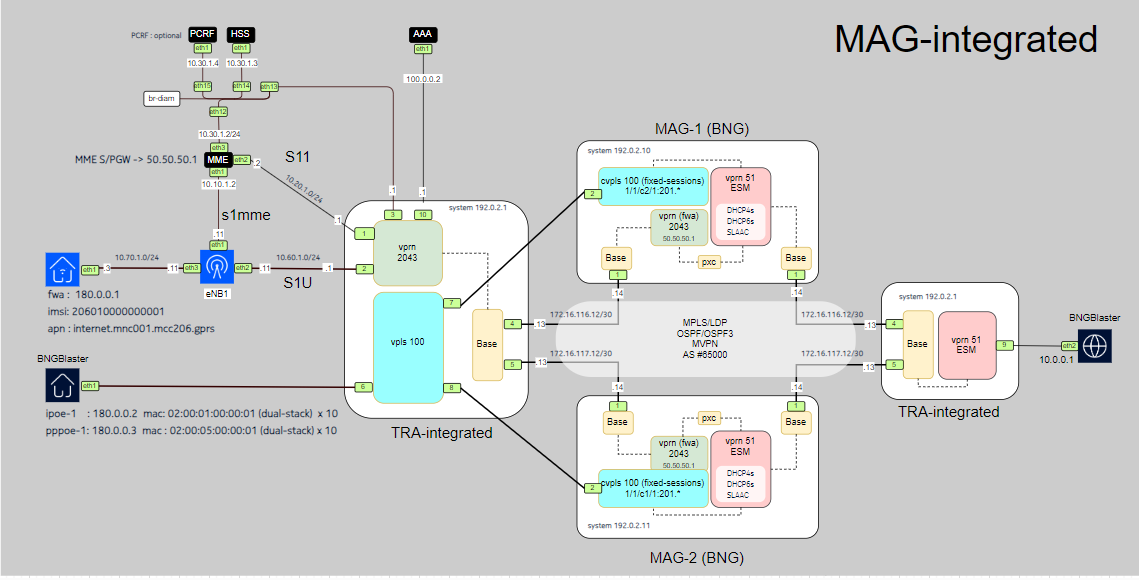
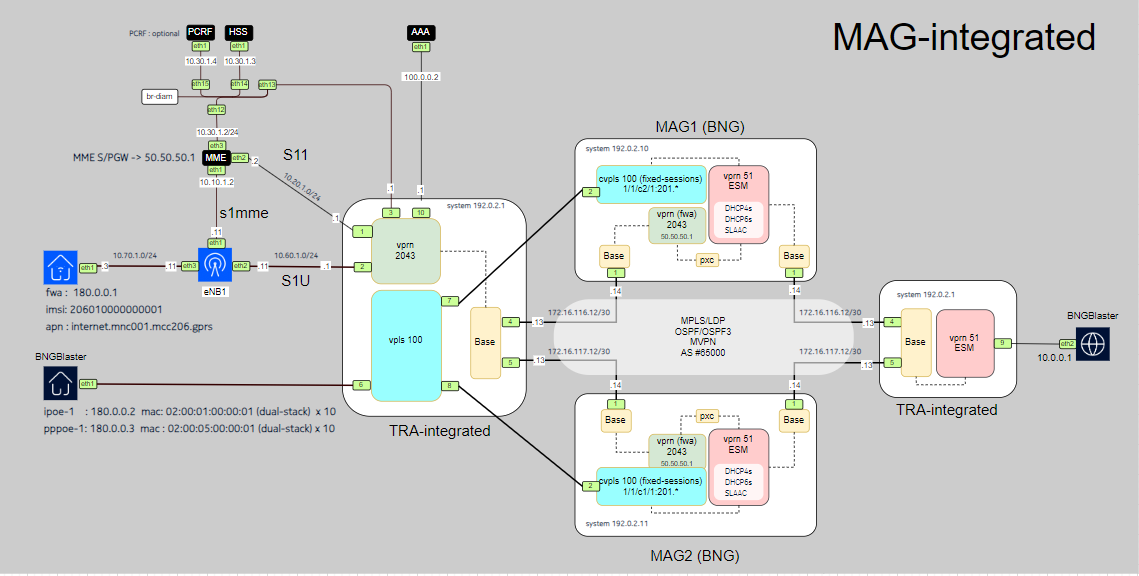
update

diff --git a/README.md b/README.md
@@ -1,7 +1,7 @@
 # **MAG-Integrated: Multi-Access Gateway with Open-Source Tools**
 
 ## **Objective**
-- The goal of this Multi access gateway integrated lab (MAG-Integrated), build with **[ContainerLab](https://containerlab.dev/)**, is to provide an efficient, flexible environment for simulating **fixed** and **Fixed Wireless Access (FWA)** sessions using open-source test tools.It is primarily designed for functional testing and educational purposes.
+- The goal of this Multi-Access Gateway integrated lab (MAG-Integrated), build with **[ContainerLab](https://containerlab.dev/)**, is to provide an efficient, flexible environment for simulating **fixed** and **Fixed Wireless Access (FWA)** sessions using open-source test tools.It is primarily designed for functional testing and educational purposes.
 
 ## **Overview**
 - **MAG-Integrated** is an open-source project built around an integrated Multi-Access Gateway architecture, previously known as a Broadband Network Gateway (BNG).It enables multi-access sessions by handling both fixed (PPPoE and IPoE) and fixed-wireless (4G) sessions on the same gateway.
@@ -15,7 +15,7 @@ The topology of the setup is illustrated in the diagram below:
 ## **Components**
 ### **1. MAG-integrated**  
 - **MAG-integrated** (also known as BNG) is a crucial network component that connects fixed (IPoE and/or PPPoE) or 4G fixed wireless users to the network through technologies such as DSL, Fiber, or Wireless. It is responsible for managing session authentication, authorization, and accounting (AAA), assigning IPv4 and/or IPv6 addresses, handling Quality of Service (QoS), and more. The MAG-integrated offers scalability and reliability, making it a vital solution for service providers.
-  - This lab initiates 10 dual-stack PPPoE or 10 dual-stack stateful redundant IPoE sessions using predefined scripts that trigger the BNG Blaster application, including ./start_pppoe_bng_notraffic.sh, ./start_pppoe_bng_traffic.sh and ./start_dhcp_bng.sh.
+  - This lab initiates 10 statefull redundant dual-stack PPPoE or IPoE sessions using predefined scripts that trigger the BNG Blaster application, including ./start_pppoe_bng_notraffic.sh, ./start_pppoe_bng_traffic.sh and ./start_dhcp_bng.sh.
   - This lab initiates a single ipv4 none-redundant 4G FWA session using predefined scripts that trigger the srsRANSim application, including ./start_4g_bng.sh and ./stop_4g_bng.sh
 
 ### **2. FreeRADIUS**
@@ -53,10 +53,11 @@ Follow the **[documentation](docs/installation_verification.md)** for detailed s
 ### **1. Clone the Repository**
 ```bash
 git clone https://github.com/hatakkey/mag-integrated.git
-cd cups-integrated
+cd mag-integrated
 ```
 
 ### **2. Create Network Bridges**
+We have two examples for creating the bridges one for CentOS and another one for ubuntu 
 For **CentOS** (example):
 ```bash
 [root@compute-1 scripts]# ./create_bridges-centos.sh
@@ -77,7 +78,7 @@ To use them, first run the below script
 ```bash 
 [root@compute-1 scripts]# ./upload-cliscripts.sh
 ```
-To download and upload the predefined scripts from /root/MAG-integrated/cliscripts/ to cf1:\scripts-md on MAG-1, MAG-2, and TRA-integrated. 
+To download and upload the predefined scripts from /root/MAG-integrated/cliscripts/ to cf1:\scripts-md on MAG1, MAG2, and TRA-integrated. 
 ## Start sessions
 
 ### **1. Register IMSI in database**

diff --git a/docs/installation_verification.md b/docs/installation_verification.md
@@ -32,7 +32,7 @@ The firewall should be enabled ,If the firewall is not enabled or inactive, star
 
 
 ## 1.3. **Create the needed bridges**:
-create the brideges
+Create the bridges
 ```bash   
 [root@compute-1 scripts]# ./create_bridges-centos.sh
 Warning: ALREADY_ENABLED: br-s1ap
@@ -190,7 +190,7 @@ ssh admin@integrated-MAG2 ## password=admin
 
 ###4. **Downloadin the CLIscripts**
  
-Via using the below pre-defined scripts,the cliscripts can be download to the nodes
+The following predefined scripts can be used to download the CLI scripts directly to the nodes
 
 ```bash 
 [root@compute-1 scripts]# ./upload-cliscripts.sh
